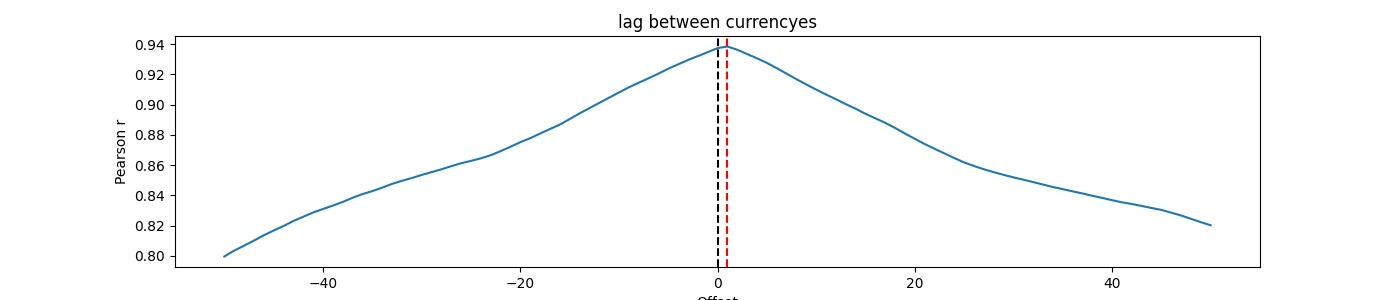
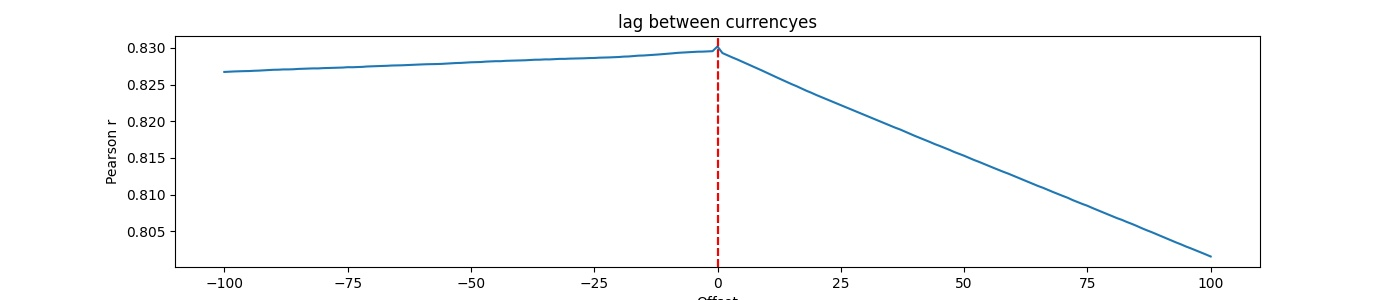
start backtester

diff --git a/lagtestV2.py b/lagtestV2.py
@@ -5,6 +5,9 @@ import numpy as np
 from sklearn.preprocessing import MinMaxScaler
 import config as cfg
 from time import time
+import lag_Corr as lg 
+import matplotlib.pyplot as plt 
+
 
 from lagtest import windowed_time_lagged_cross_correlation 
 
@@ -53,7 +56,7 @@ def plot_chart(coin1,coinName1="",mode="lines"):
 
     return fig
 
-def addMovingAndStd(fig,coin):
+def addMovingAndStd_toPlot(fig,coin):
     fig.add_trace(go.Scatter(x=coin.index, y=coin["rolling"],line_color = "black",mode="lines"))
     upper = coin["rolling"]+coin["scaled_price_std"]
     lower = coin["rolling"]-coin["scaled_price_std"]
@@ -97,3 +100,27 @@ def joinTimeSeries(Dict,window=300):
     df = returnsAndStd(df,rolling=True,window=window)
 
     return df 
+
+def detect_leg_corr(p1,p2,lag=100):
+    #caluclate sycrony 
+    # negativer lag p2 gibt p1 an  
+    res = {} 
+    for l in range(-int(lag),int(lag+1)):
+        res[l] = lg.crosscorr(p1,p2, l) 
+
+    sorted_res = dict(sorted(res.items(), key=lambda item: item[1],reverse=True))
+    peak_snyc = list(sorted_res.items())[0]
+
+    return peak_snyc,sorted_res,res
+
+def lag_plot(res,peak_snyc,image_name="./myplot.jpg"):
+
+    image_name = "./images/"+image_name
+
+    f,ax=plt.subplots(figsize=(14,3))
+    ax.plot(res.keys(),res.values())
+    ax.axvline(0,color='k',linestyle='--',label='Center')
+    ax.axvline(peak_snyc[0],color='r',linestyle='--',label='Peak synchrony')
+    ax.set(title='lag between currencyes', xlabel='Offset',ylabel='Pearson r')
+
+    plt.savefig(image_name)

diff --git a/playground_regression.py b/playground_regression.py
@@ -1,19 +1,22 @@
 import lagtestV2 as lg
 
+# transaktionsdauer 
+# BTC = 10 min avg
+# eth = 16 Sekunden und 5 Minuten.
 main_coins = ["BTC","ETH","ADA","XRP","SOL"]
 
-main_coins = lg.get_main_coins_eod(main_coins,start=15,interval="1m")
+main_coins = lg.get_main_coins_eod(main_coins,start=20,interval="1m")
 
 join_df = lg.joinTimeSeries(main_coins)
 
-print(join_df)
-
 fig = lg.plot_chart(join_df)
 
-fig = lg.addMovingAndStd(fig,join_df)
-
-print(main_coins)
+fig = lg.addMovingAndStd_toPlot(fig,join_df)
 
 fig = lg.plot_chartV2(coin_dict=main_coins, fig=fig)
 
 fig.show()
+
+#peak_snyc,sorted_res,res =  lg.detect_leg_corr(main_coins["XRP"]["scaled_price"],join_df["scaled_price"])
+#lg.lag_plot(res,peak_snyc)
+

diff --git a/playground_lagtest.py b/playground_lagtest.py
@@ -10,9 +10,6 @@ main_coins = ["BTC","ETH","ADA","XRP","SOL"]
 
 main_coins_df = lg.get_main_coins_eod(main_coins,start=15,interval="5m")
 
-lg.plot_chartV2(main_coins_df)
+fig = lg.plot_chartV2(main_coins_df)
 
-
-
-
-
+fig.show()
